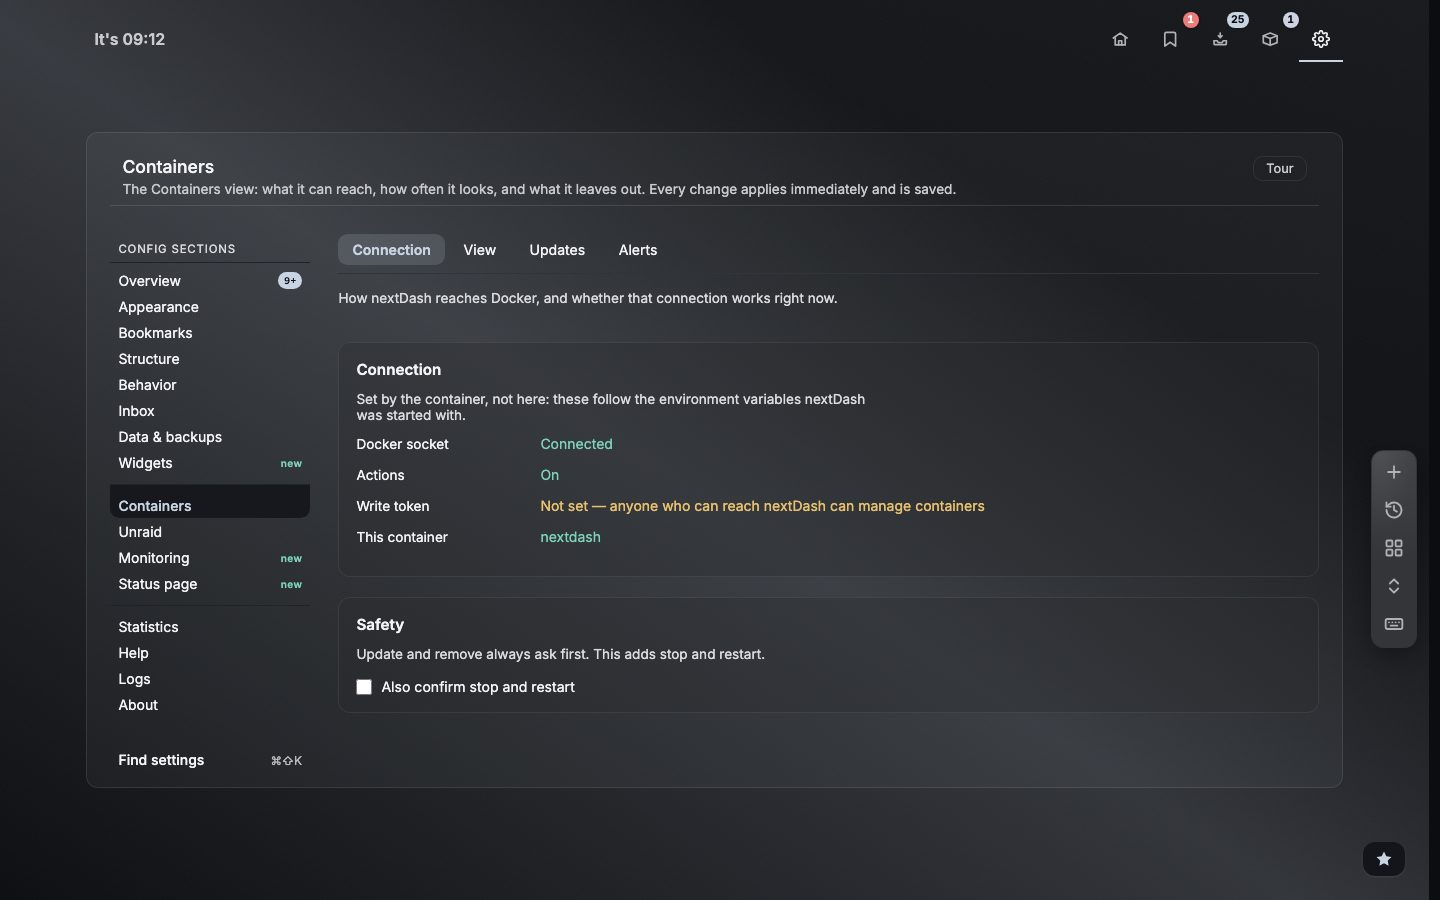
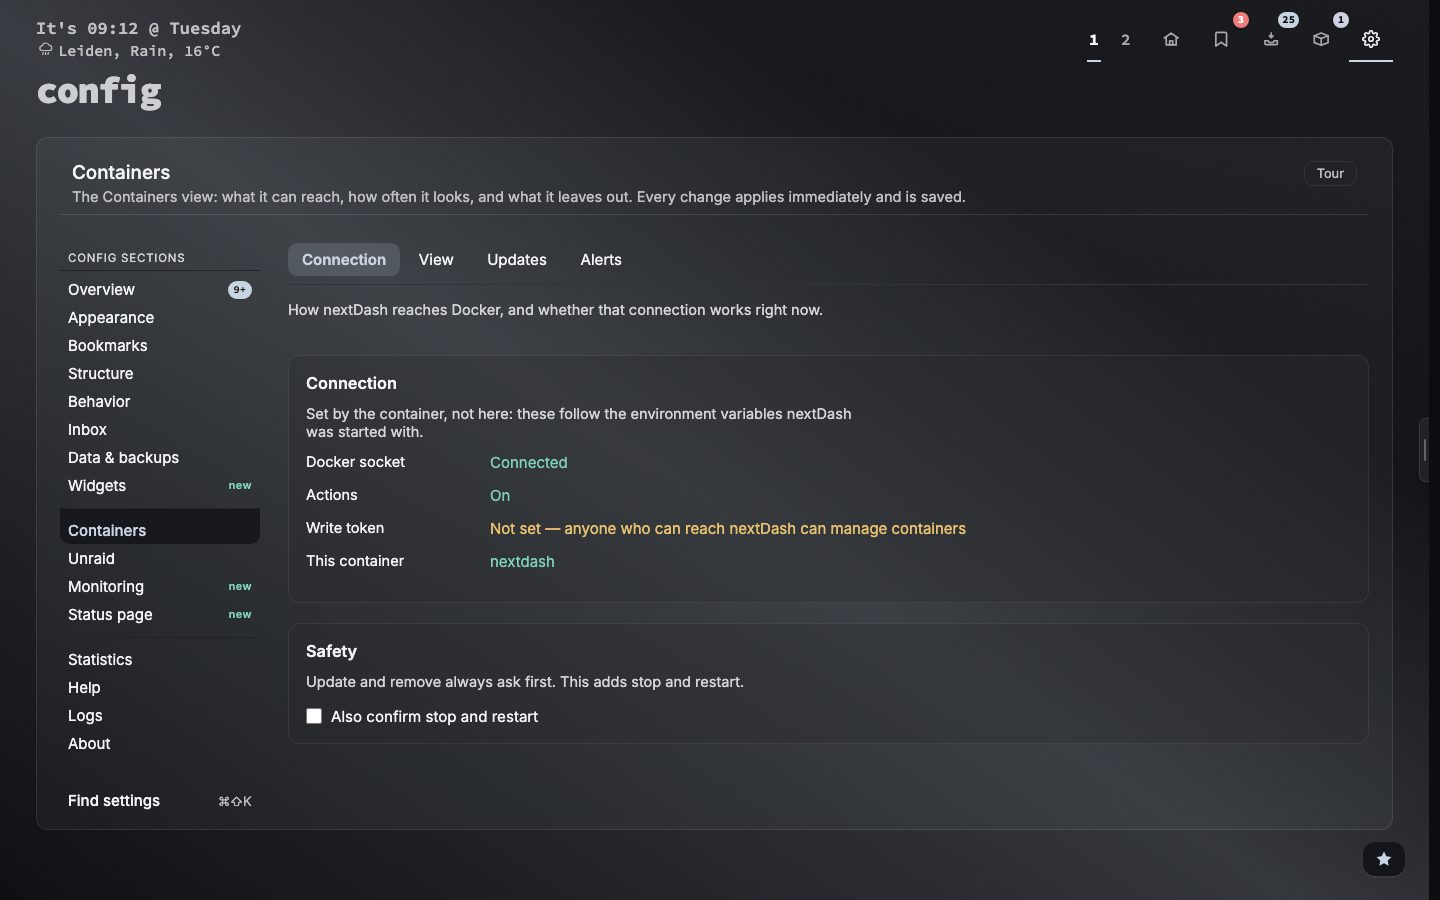
docs: manual About tabs and typeface, new About shots, Config shots in Inter

diff --git a/tests/manual-screenshots.spec.js b/tests/manual-screenshots.spec.js
@@ -1328,7 +1328,8 @@ test('full 14 side panel', async ({ page }) => {
 });
 
 for (const [section, name] of [['appearance', '17-appearance.jpg'], ['bookmarks', '17-bookmarks.jpg'],
-    ['inbox', '17-inbox.jpg'], ['containers', '17-containers.jpg'], ['help', '17-help.jpg']]) {
+    ['inbox', '17-inbox.jpg'], ['containers', '17-containers.jpg'], ['help', '17-help.jpg'],
+    ['about', '17-about.jpg']]) {
     test(`full 17 ${section}`, async ({ page }) => {
         await prepare(page);
         await openConfig(page, section);
@@ -1336,6 +1337,15 @@ for (const [section, name] of [['appearance', '17-appearance.jpg'], ['bookmarks'
         await shot(page, name);
     });
 }
+
+test('full 17 about install', async ({ page }) => {
+    await prepare(page);
+    await openConfig(page, 'about');
+    await page.locator('[data-about-tab="install"]').click();
+    await page.locator('[data-about-action="copy-diagnostics"]').waitFor();
+    await page.waitForTimeout(1_000);
+    await shot(page, '17-about-install.jpg');
+});
 
 test.describe('unraid config', () => {
     test.use({ dataPatch: 'unraid' });

diff --git a/MANUAL.md b/MANUAL.md
@@ -3380,7 +3380,7 @@ other theme keeps its own. The backdrop and the card glass work the same way.
 
 ### 16.4 Type and background
 
-- **Typeface** — Source Code Pro, JetBrains Mono, IBM Plex Mono, Inter, IBM Plex Sans, DM Sans or System UI — or **upload a font file**. A fresh install reads in Source Code Pro, and an install that was on Inter moved to it once; Inter stays one pick away. The size is medium (**M**) on a fresh install. An install that has a size keeps it; one still on the old default moves up once. Code, addresses and key chips are set in Source Code Pro, or in the monospaced typeface you pick; a proportional one leaves them on Source Code Pro.
+- **Typeface** — Source Code Pro, JetBrains Mono, IBM Plex Mono, Inter, IBM Plex Sans, DM Sans or System UI — or **upload a font file**. The typeface you pick sets the dashboard: the header bar, the bookmark grid and the search panel. A fresh install reads in Source Code Pro there, and Inter stays one pick away. Config, the Inbox, Tags, Containers, the modals and the other views read in Inter, whatever you pick. The size is medium (**M**) on a fresh install. An install that has a size keeps it; one still on the old default moves up once. Code, addresses and key chips are set in Source Code Pro, or in the monospaced typeface you pick; a proportional one leaves them on Source Code Pro.
 - **Weight** — Normal, Semi-bold or Bold. **Size** — seven steps from XS to XL, **M** by default; pointing at a size previews it.
 
 Type is in the **Type** panel on the **Theme** tab; everything behind the bookmarks is on the **Background** tab, drawn in three layers from the bottom up: the theme's backdrop, a pattern over it, and a background of your own on top.
@@ -3721,7 +3721,21 @@ The Unraid server has a section of its own, **Config → Unraid**: the Container
 
 **The view tours.** The Bookmarks view, Containers, the Inbox and Config → Widgets each have a tour of their own, drawn in a window and offered once, the first time you visit. A **Tour** button beside the **ℹ** at the top of the view plays it again whenever you want. The Bookmarks view tour has five steps: the list and its rail, the three ways to check a link, charts and collection health, alerts, and clearing the backlog. The Containers tour has six: the list, acting on containers, the side panel, updates with a way back, Disk, and settings and alerts. The Inbox tour has four and the Widgets tour four: what a widget shows, the catalogue, the Custom widget, and how a widget behaves on the page. **Behavior → Privacy & sync → Onboarding** replays each of them.
 
-**About** has two tabs: **About nextDash** (what the project is, and links to nextdash.cc, GitHub, jordibrw.nl and Ko-fi) and **News & features** (every post from nextdash.cc, every release and every setting worth switching on, with source filters, and a button that bookmarks nextdash.cc so Fresh counts its posts).
+**About** has three tabs. **Project** says what nextDash is and why it exists, links to the docs, the issues, the changelog, the manual and the maker's site, has a Ko-fi card for those who want to chip in, and ends in a collapsed **Credits and licences** block. **Install** shows the release you run and whether a newer one is out, tiles for pages, categories, bookmarks, widgets, tags, data size, uptime and platform, and **Copy diagnostics**, which puts the facts a bug report asks for on the clipboard. **News & features** lists every post from nextdash.cc, every release and every setting worth switching on, with source filters, and a button that bookmarks nextdash.cc so Fresh counts its posts.
+
+<details>
+<summary>📷 Screenshot — Config → About, Project tab</summary>
+
+<p align="center"><img src="screenshots/manual.md/17-about.jpg" alt="Config, About on the Project tab: the nextDash mark with its tagline and links to GitHub, nextdash.cc, Docs, Issues, Changelog and Manual, and the cards Why it exists and Support nextDash with a Ko-fi button" width="860"></p>
+
+</details>
+
+<details>
+<summary>📷 Screenshot — Config → About, Install tab</summary>
+
+<p align="center"><img src="screenshots/manual.md/17-about-install.jpg" alt="Config, About on the Install tab: the release this install runs and that it is the newest, tiles for pages, categories, bookmarks, widgets, tags, data size, uptime and platform, and Diagnostics with a Copy diagnostics button" width="860"></p>
+
+</details>
 
 <a id="whats-new"></a>
 
